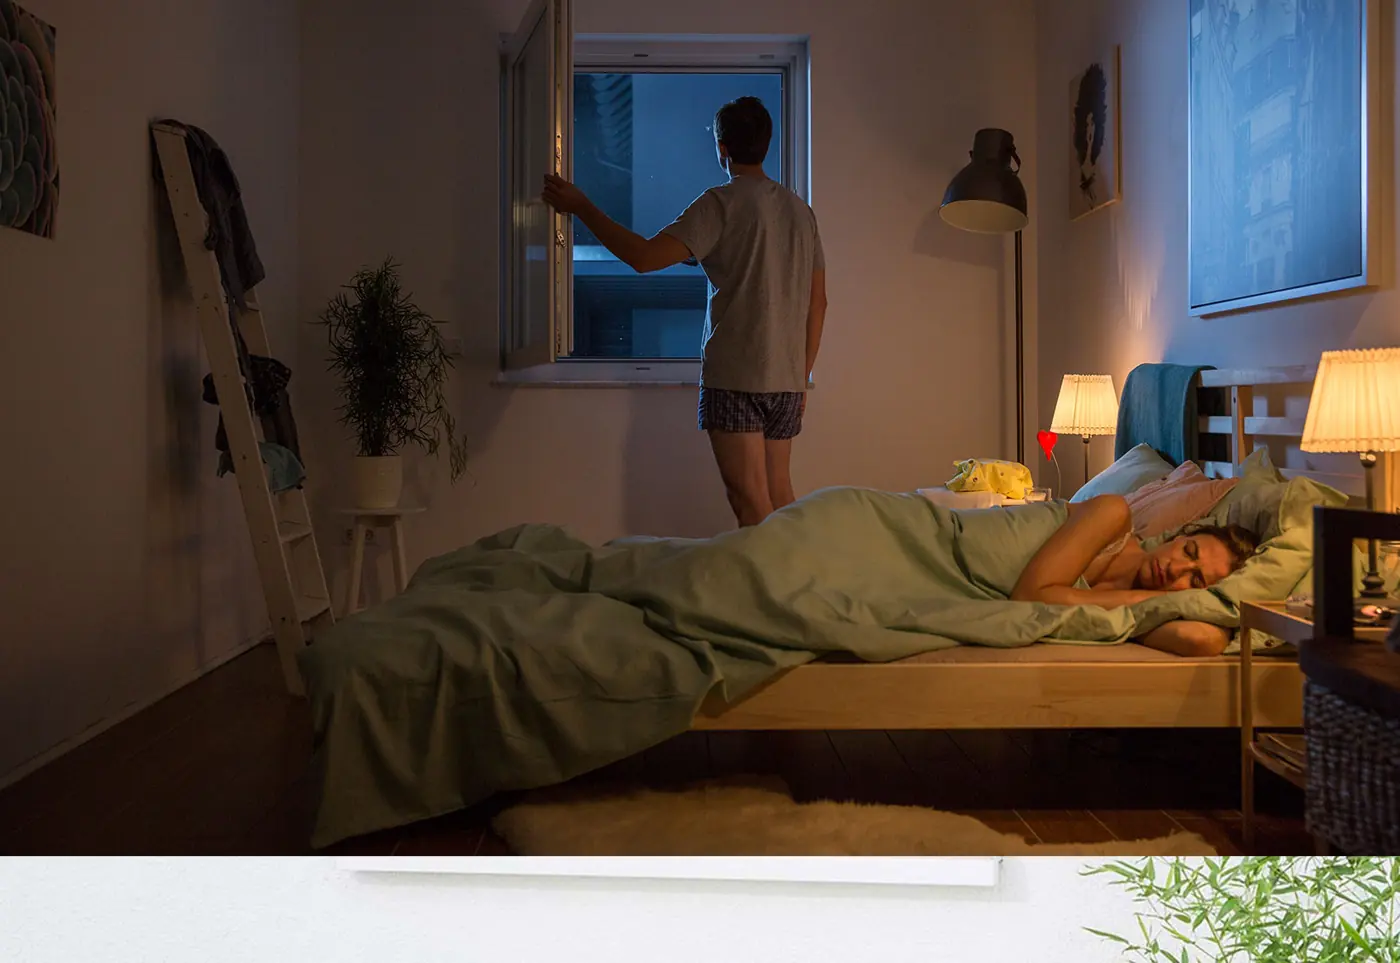
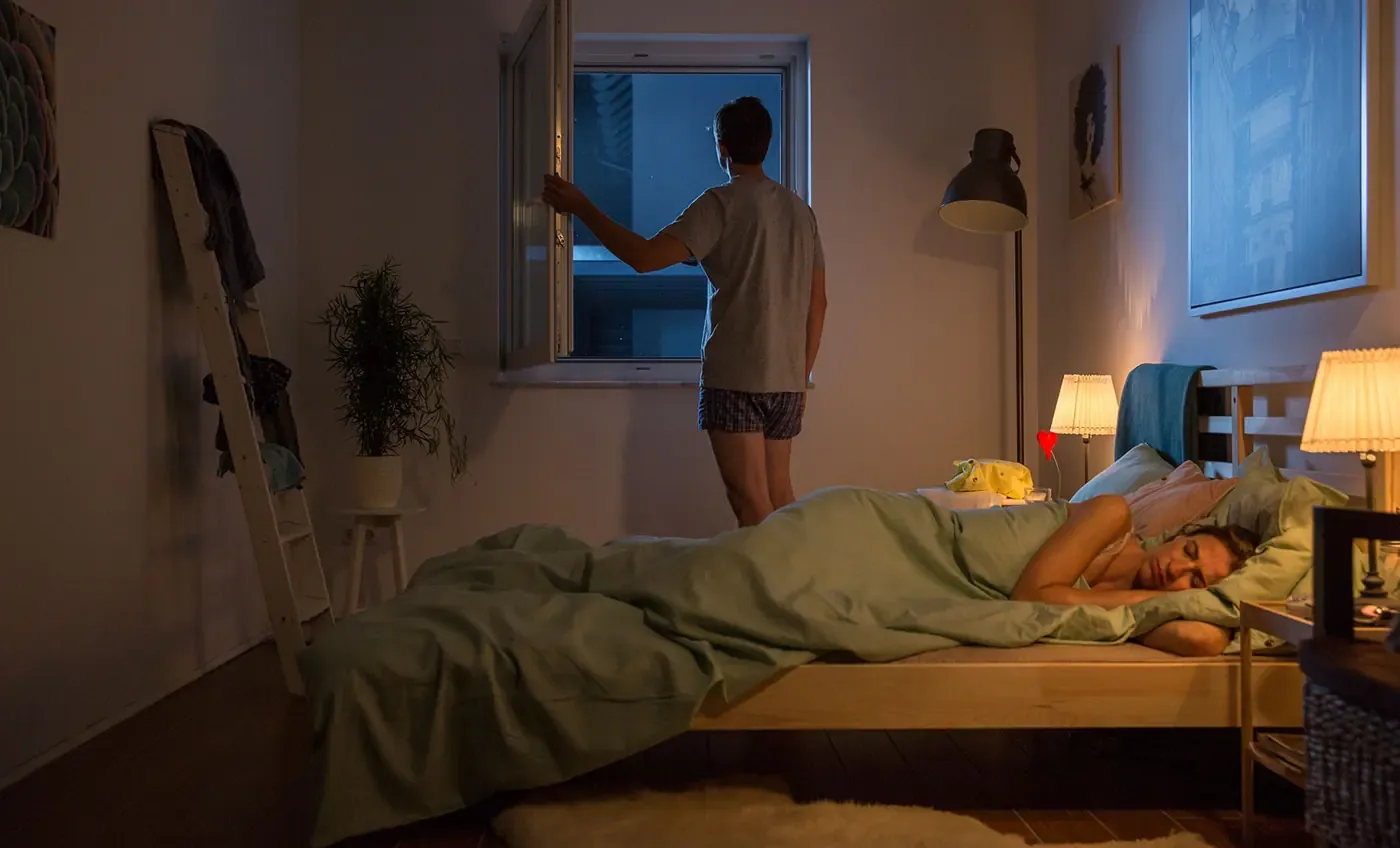
Badge 'Calidad alemana' entfernt, Antipolen-Bild ohne weißen Rest zugeschnitten
Claude-Session: https://claude.ai/code/session_01EvGq64qTNduMKCjZVyMghb

diff --git a/public/index.html b/public/index.html
@@ -116,7 +116,7 @@
               </div>
             </a>
             <a href="/tipos-de-tejido/#polltec" data-reveal class="group flex flex-col overflow-hidden rounded-3xl border border-line bg-sand transition hover:-translate-y-1 hover:shadow-lg hover:shadow-netec-900/10">
-              <img src="/img/fotos/antipolen.webp" alt="Dormitorio con la ventana abierta por la noche" class="aspect-[4/3] w-full object-cover" width="1400" height="963" loading="lazy" />
+              <img src="/img/fotos/antipolen.webp" alt="Dormitorio con la ventana abierta por la noche" class="aspect-[4/3] w-full object-cover" width="1400" height="848" loading="lazy" />
               <div class="flex flex-1 flex-col p-5">
                 <h3 class="font-semibold group-hover:text-netec-700">Antipolen</h3>
                 <p class="mt-1 flex-1 text-sm text-stone">Tejido Polltec para alérgicos, con sello ECARF.</p>
@@ -158,7 +158,6 @@
             <div class="mesh absolute -inset-3 rounded-[2.25rem] text-netec-500/25" aria-hidden="true"></div>
             <img src="/img/fotos/diferencia-1.webp" alt="Madre e hijo chocan la mano a través de una mosquitera prácticamente invisible" class="relative aspect-[6/5] w-full rounded-[2rem] object-cover shadow-2xl shadow-netec-900/10" width="1200" height="923" loading="lazy" />
             <img src="/img/fotos/diferencia-2.webp" alt="Madre e hijo juntan las manos en la mosquitera, casi invisible" class="absolute right-0 bottom-0 w-1/2 rounded-3xl border-4 border-sand object-cover shadow-xl" width="800" height="593" loading="lazy" />
-            <figcaption class="absolute top-5 left-5 rounded-full bg-ink px-5 py-2.5 text-sm font-semibold text-white shadow-lg">Calidad alemana · Neher</figcaption>
           </figure>
           <div>
             <p class="eyebrow" data-reveal>La diferencia Netec</p>
